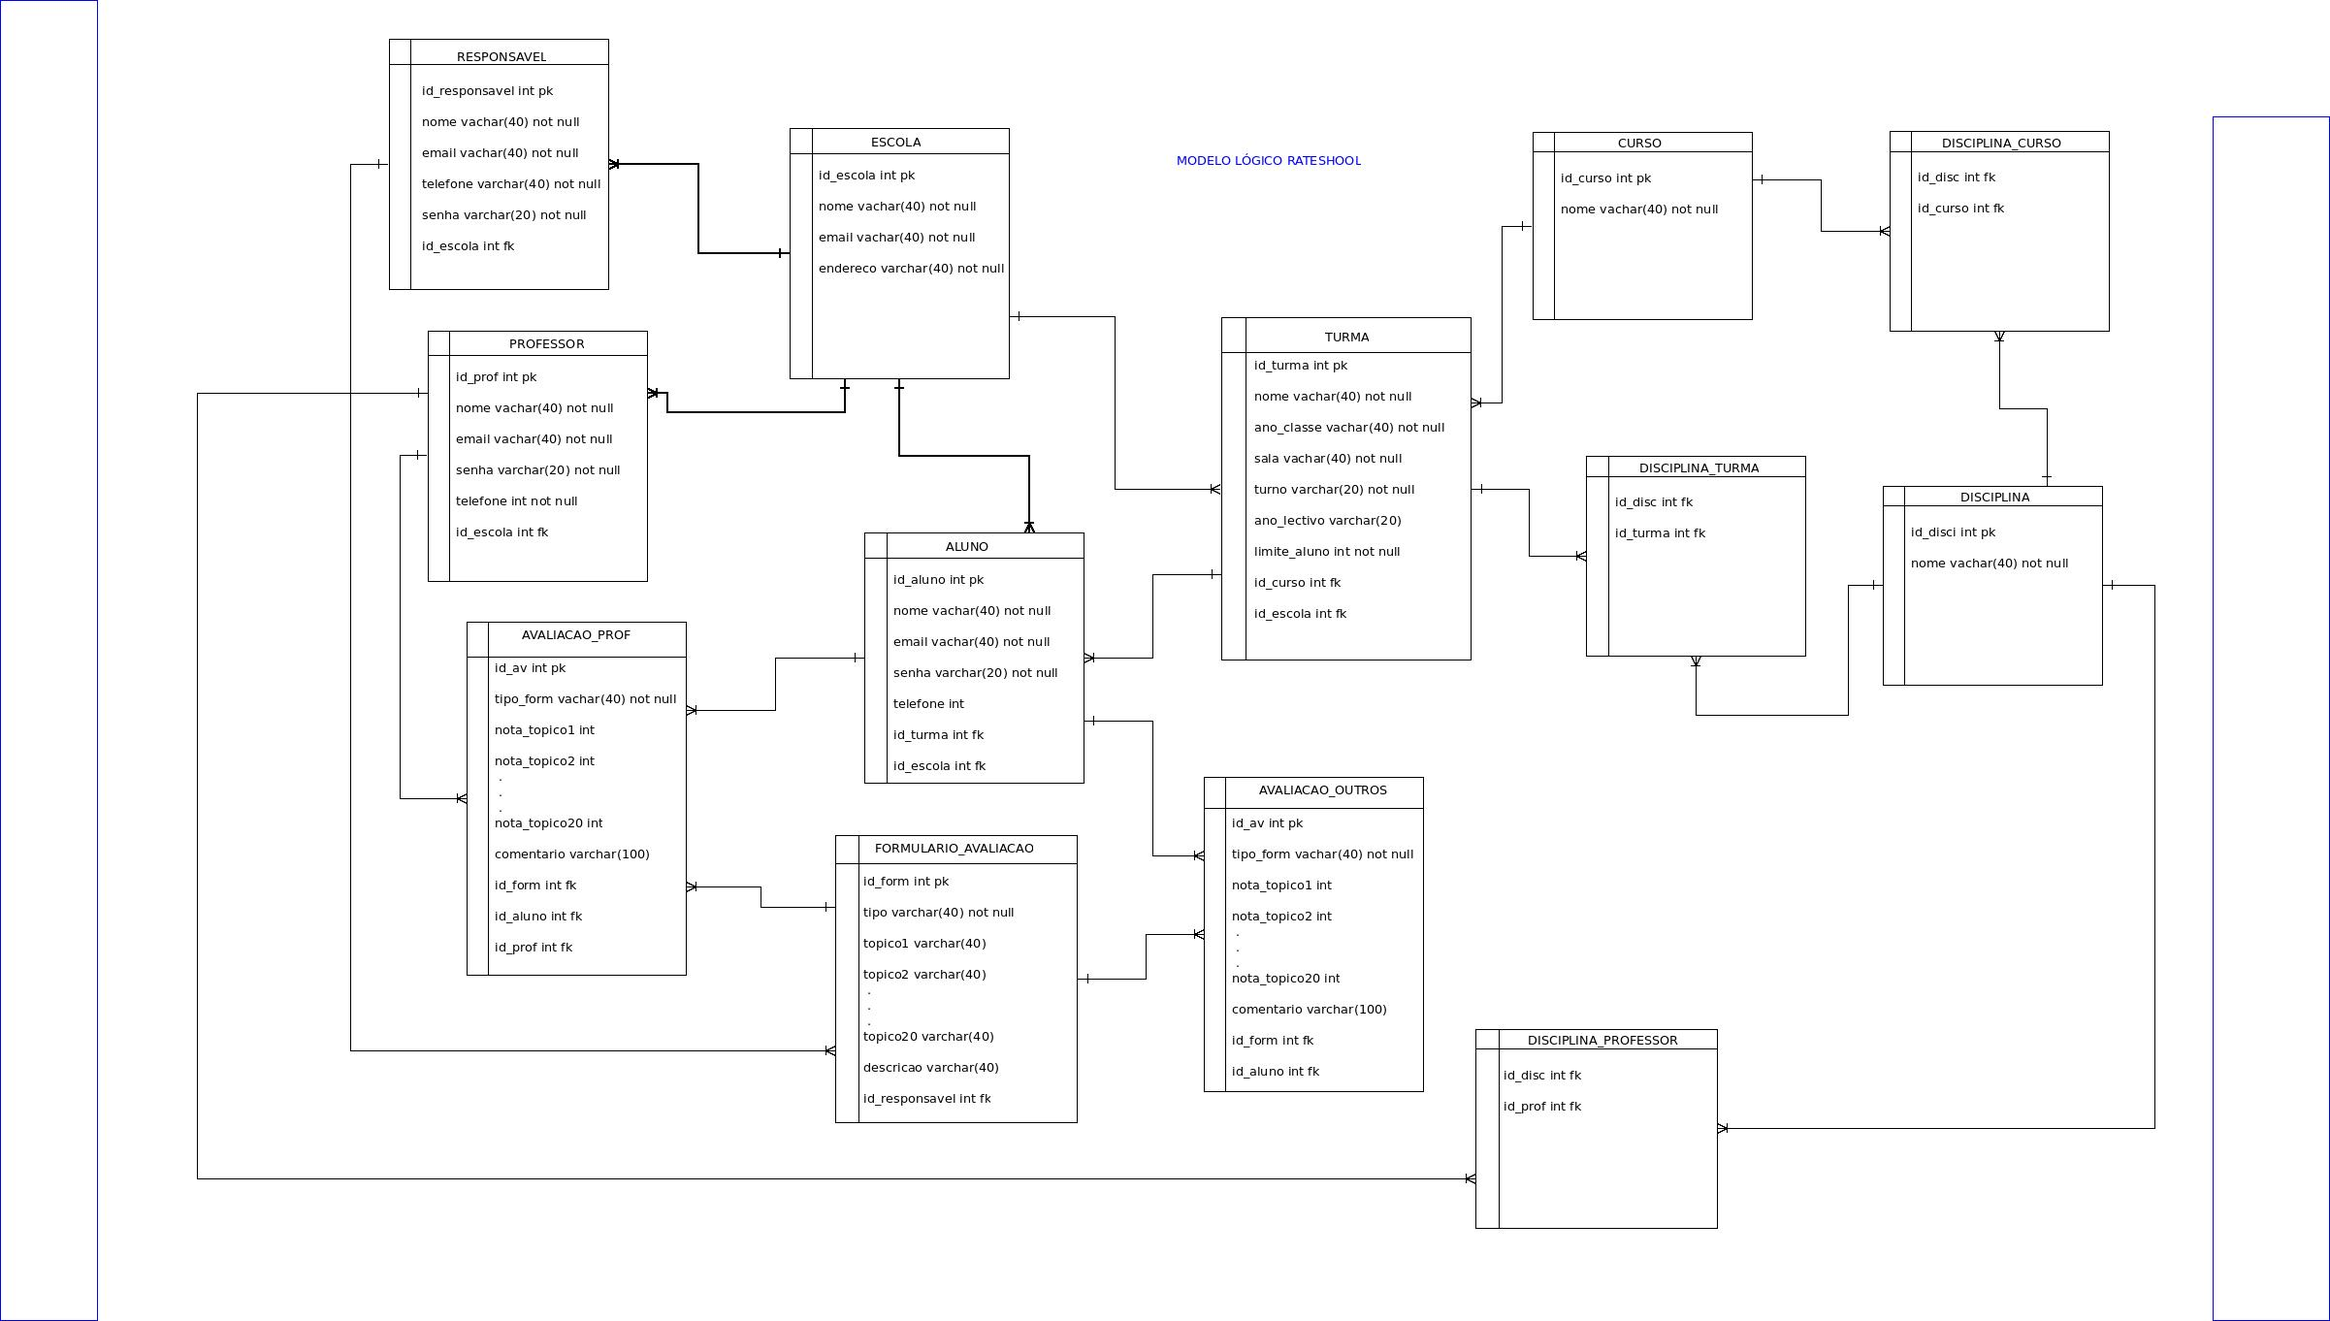
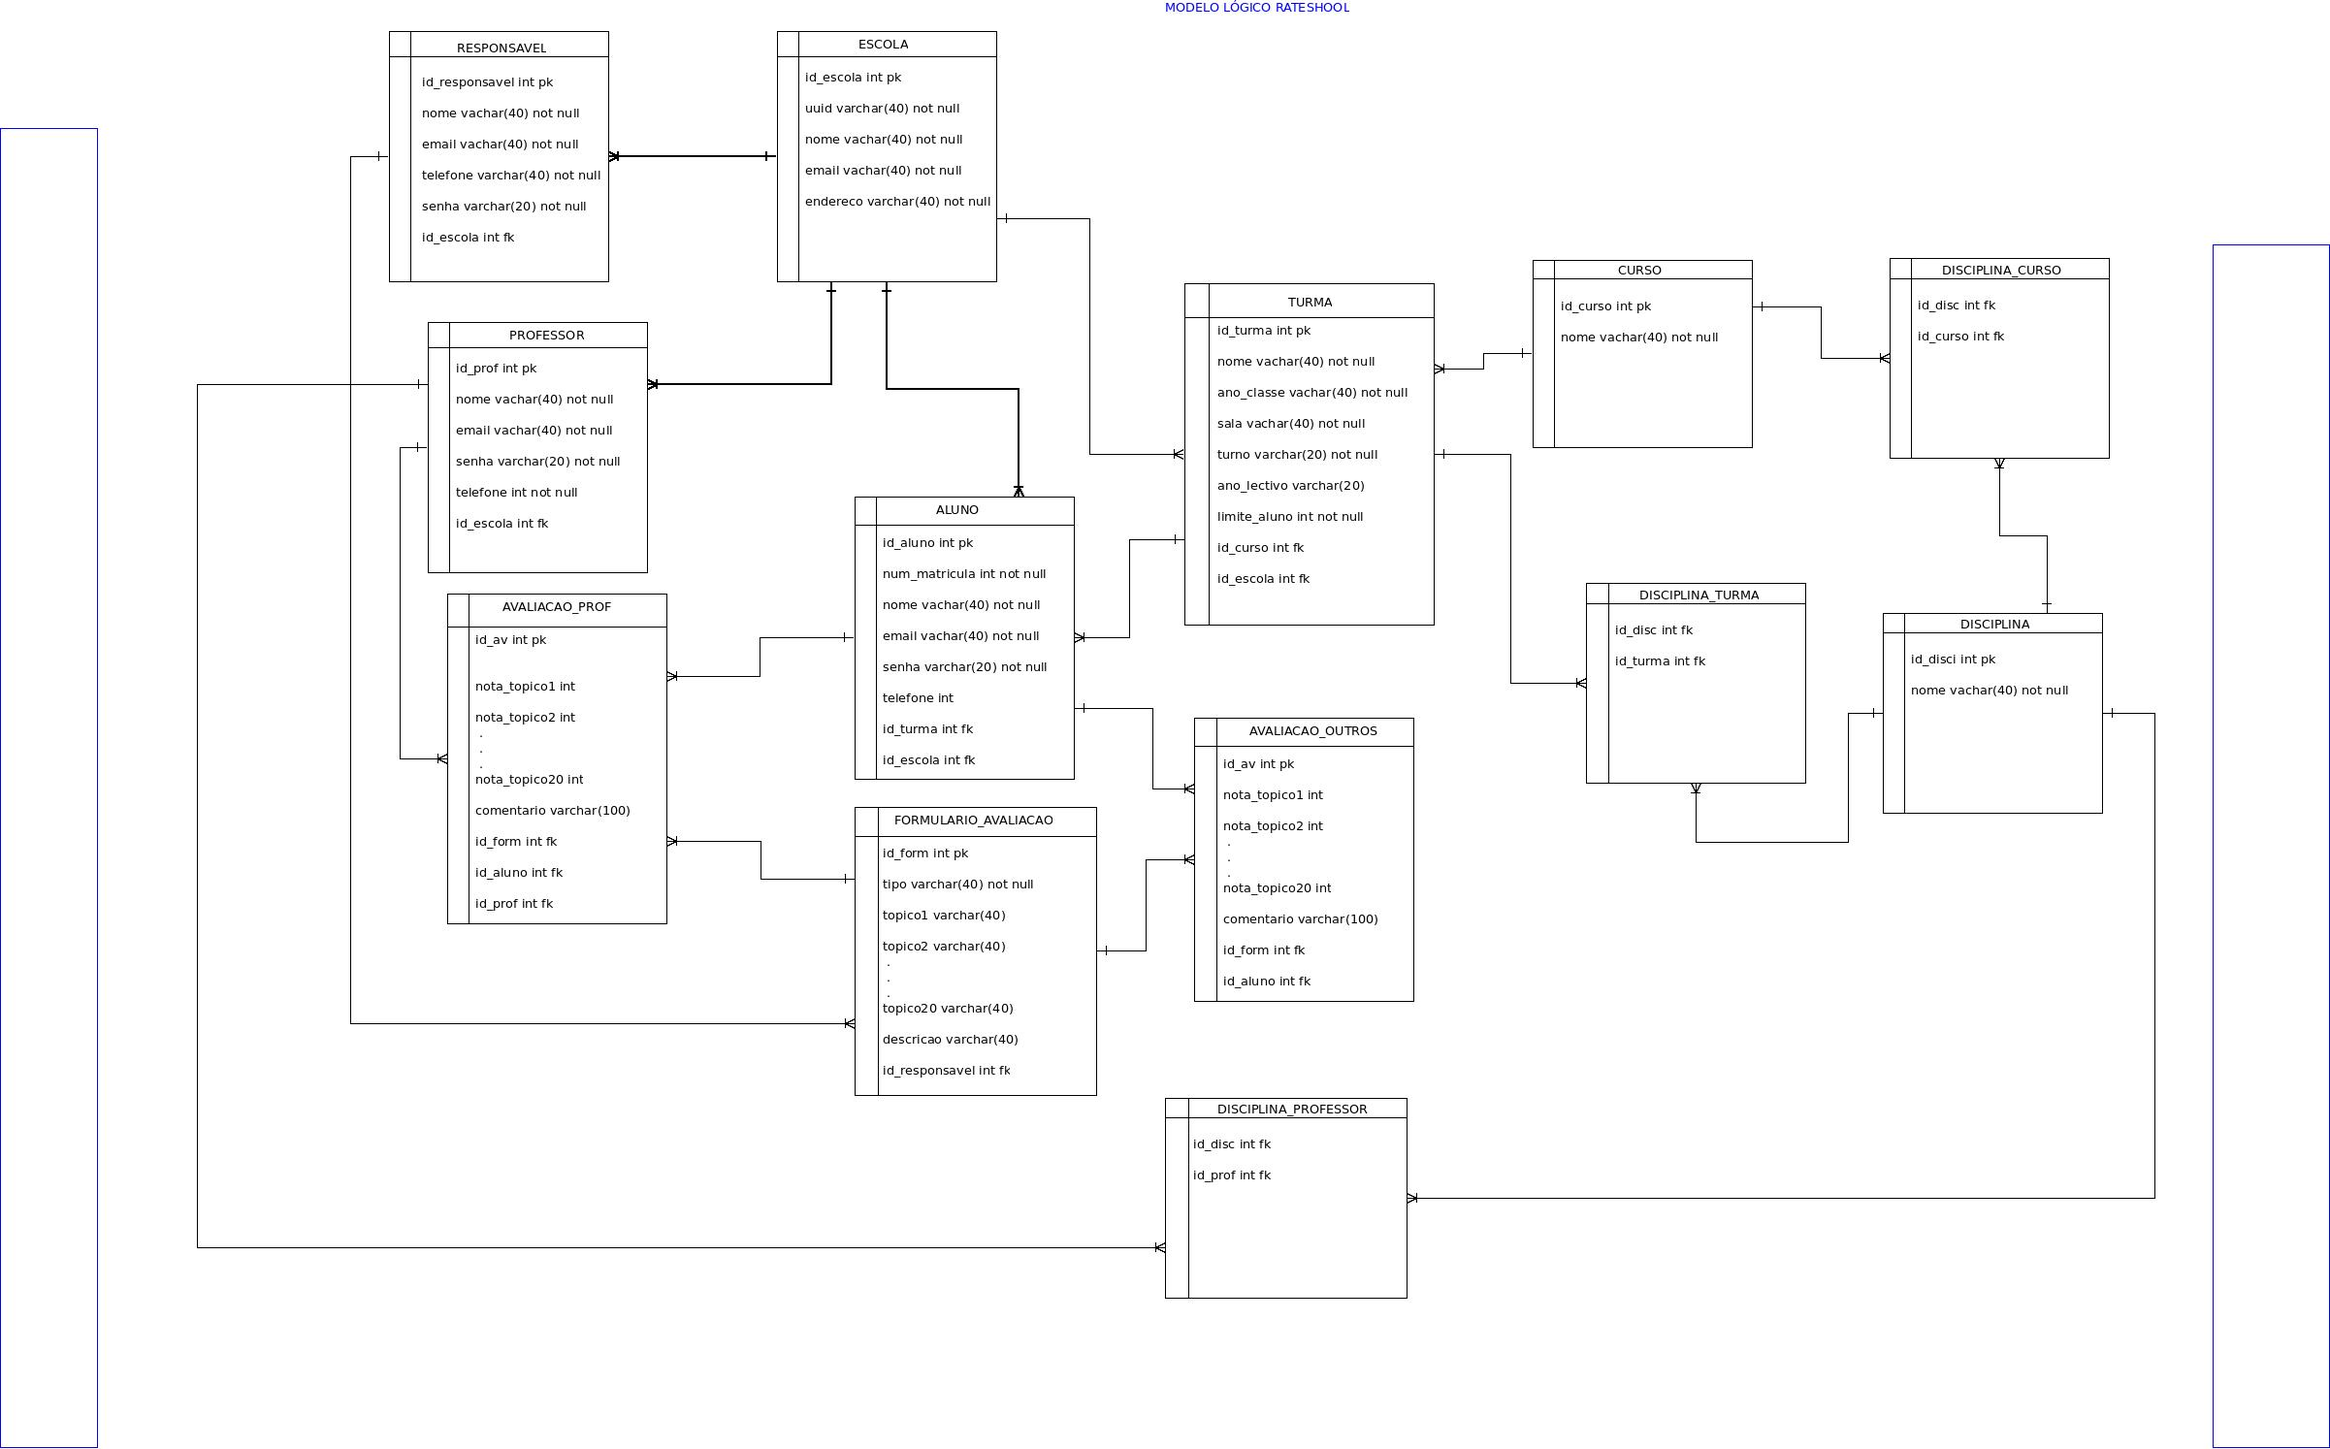
pagina criar conta e base

diff --git a/app/templates/criarConta.html b/app/templates/criarConta.html
@@ -1,0 +1,125 @@
+{% extends "base.html" %}
+
+{% block title %} Criar conta {% endblock %}
+
+{% block content %}
+<style>
+        /* Cores Customizadas (Reutilizando as cores do seu Navbar/Rodapé) */
+        .text-custom-blue {
+            color: #1a56db; 
+        }
+        .bg-custom-orange {
+            background-color: #f97316; 
+        }
+        .text-custom-orange {
+            color: #f97316; 
+        }
+    </style>
+
+<div class="md:p-8 flex flex-col md:flex-row">
+
+
+    <!-- Formulário de Criação de Conta -->
+        <div class="w-full md:w-1/2 lg:w-5/12 xl:w-4/12 bg-white p-8 sm:p-10 rounded-xl shadow-lg border border-gray-200">
+            
+            <h1 class="text-2xl font-bold text-gray-800 text-center mb-1">CRIAR CONTA</h1>
+            <p class="text-sm text-gray-600 text-center mb-8">
+                Preencha o formulário com os seus dados <br> para criar a sua conta.
+            </p>
+
+            <form action="#" method="POST" class="space-y-6">
+
+                <div class="space-y-4">
+                    <p class="text-sm font-semibold text-gray-700 border-b border-gray-300 pb-2">
+                        Informe os dados da Instituição
+                    </p>
+
+                    <div>
+                        <label for="nome_instituicao" class="flex items-center text-sm font-medium text-gray-700 mb-1">
+                            <svg class="w-5 h-5 mr-2 text-custom-orange" xmlns="http://www.w3.org/2000/svg" viewBox="0 0 24 24" fill="none" stroke="currentColor" stroke-width="2" stroke-linecap="round" stroke-linejoin="round"><path d="M12 2l10 5-10 5-10-5 10-5zm0 17v-10"/><path d="M4 12v6l8 4 8-4v-6"/></svg>
+                            Nome da Instituição
+                        </label>
+                        <input type="text" id="nome_instituicao" name="nome_instituicao" placeholder="Digite o Nome" required
+                               class="w-full p-2 border border-gray-300 rounded-lg focus:ring-custom-blue focus:border-custom-blue" />
+                    </div>
+
+                    <div>
+                        <label for="email_instituicao" class="flex items-center text-sm font-medium text-gray-700 mb-1">
+                            <svg class="w-5 h-5 mr-2 text-custom-orange" xmlns="http://www.w3.org/2000/svg" viewBox="0 0 24 24" fill="none" stroke="currentColor" stroke-width="2" stroke-linecap="round" stroke-linejoin="round"><path d="M4 4h16c1.1 0 2 .9 2 2v12c0 1.1-.9 2-2 2H4c-1.1 0-2-.9-2-2V6c0-1.1.9-2 2-2z"/><polyline points="22,6 12,13 2,6"/></svg>
+                            Email da Instituição
+                        </label>
+                        <input type="email" id="email_instituicao" name="email_instituicao" placeholder="Digite o Email" required
+                               class="w-full p-2 border border-gray-300 rounded-lg focus:ring-custom-blue focus:border-custom-blue" />
+                    </div>
+
+                    <div>
+                        <label for="endereco_instituicao" class="flex items-center text-sm font-medium text-gray-700 mb-1">
+                            <svg class="w-5 h-5 mr-2 text-custom-orange" xmlns="http://www.w3.org/2000/svg" viewBox="0 0 24 24" fill="none" stroke="currentColor" stroke-width="2" stroke-linecap="round" stroke-linejoin="round"><path d="M21 10c0 7-9 13-9 13s-9-6-9-13a9 9 0 0 1 18 0z"/><circle cx="12" cy="10" r="3"/></svg>
+                            Endereça da Instituição
+                        </label>
+                        <input type="text" id="endereco_instituicao" name="endereco_instituicao" placeholder="Digite o Endereço" required
+                               class="w-full p-2 border border-gray-300 rounded-lg focus:ring-custom-blue focus:border-custom-blue" />
+                    </div>
+                </div> <div class="pt-4 space-y-4">
+                    <p class="text-sm font-semibold text-gray-700 border-b border-gray-300 pb-2">
+                        Informe os dados do Responsável da conta
+                    </p>
+
+                    <div>
+                        <label for="nome_responsavel" class="flex items-center text-sm font-medium text-gray-700 mb-1">
+                            <svg class="w-5 h-5 mr-2 text-custom-orange" xmlns="http://www.w3.org/2000/svg" viewBox="0 0 24 24" fill="none" stroke="currentColor" stroke-width="2" stroke-linecap="round" stroke-linejoin="round"><path d="M20 21v-2a4 4 0 0 0-4-4H8a4 4 0 0 0-4 4v2"/><circle cx="12" cy="7" r="4"/></svg>
+                            Nome do Responsável
+                        </label>
+                        <input type="text" id="nome_responsavel" name="nome_responsavel" placeholder="Digite o nome completo" required
+                               class="w-full p-2 border border-gray-300 rounded-lg focus:ring-custom-blue focus:border-custom-blue" />
+                    </div>
+
+                    <div>
+                        <label for="telefone_responsavel" class="flex items-center text-sm font-medium text-gray-700 mb-1">
+                            <svg class="w-5 h-5 mr-2 text-custom-orange" xmlns="http://www.w3.org/2000/svg" viewBox="0 0 24 24" fill="none" stroke="currentColor" stroke-width="2" stroke-linecap="round" stroke-linejoin="round"><path d="M22 16.92v3a2 2 0 0 1-2.18 2 19.79 19.79 0 0 1-8.63-3.07 19.5 19.5 0 0 1-6-6A19.79 19.79 0 0 1 2 4.18V2.82A2 2 0 0 1 4.18 2 2.75 2.75 0 0 1 5 2.25c.16.08.32.17.47.27l1.88 1.1a1 1 0 0 1 .45 1.48L5.75 8.25a1 1 0 0 0 0 1.5l3 3a1 1 0 0 0 1.5 0l2.75-2.05a1 1 0 0 1 1.48.45l1.1 1.88c.1.15.19.31.27.47.07.16.04.34-.09.47l-1.5 1.5A2.75 2.75 0 0 0 22 16.92z"/></svg>
+                            Telefone do Responsável
+                        </label>
+                        <input type="tel" id="telefone_responsavel" name="telefone_responsavel" placeholder="Digite o nº de telefone" required
+                               class="w-full p-2 border border-gray-300 rounded-lg focus:ring-custom-blue focus:border-custom-blue" />
+                    </div>
+                </div>
+
+                <div>
+                    <label for="password" class="flex items-center text-sm font-medium text-gray-700 mb-1">
+                        <svg class="w-5 h-5 mr-2 text-custom-orange" xmlns="http://www.w3.org/2000/svg" viewBox="0 0 24 24" fill="none" stroke="currentColor" stroke-width="2" stroke-linecap="round" stroke-linejoin="round"><rect x="3" y="11" width="18" height="11" rx="2" ry="2"/><path d="M7 11V7a5 5 0 0 1 10 0v4"/></svg>
+                        Palavra Pass
+                    </label>
+                    <input type="password" id="password" name="password" placeholder="Digite a sua palavra pass" required
+                           class="w-full p-2 border border-gray-300 rounded-lg focus:ring-custom-blue focus:border-custom-blue" />
+                </div>
+
+                <div>
+                    <label for="confirm_password" class="flex items-center text-sm font-medium text-gray-700 mb-1">
+                        <svg class="w-5 h-5 mr-2 text-custom-orange" xmlns="http://www.w3.org/2000/svg" viewBox="0 0 24 24" fill="none" stroke="currentColor" stroke-width="2" stroke-linecap="round" stroke-linejoin="round"><rect x="3" y="11" width="18" height="11" rx="2" ry="2"/><path d="M7 11V7a5 5 0 0 1 10 0v4"/></svg>
+                        Confirme a Palavra Pass
+                    </label>
+                    <input type="password" id="confirm_password" name="confirm_password" placeholder="Digite a sua palavra pass" required
+                           class="w-full p-2 border border-gray-300 rounded-lg focus:ring-custom-blue focus:border-custom-blue" />
+                </div>
+
+                <button type="submit" 
+                        class="w-full py-2.5 mt-4 text-lg font-semibold text-white bg-custom-orange rounded-3xl shadow-md hover:bg-orange-600 transition duration-150">
+                    CRIAR
+                </button>
+            </form>
+            
+            <p class="text-sm text-center mt-4">
+                Já tem uma conta? 
+                <a href="#" class="text-custom-blue font-semibold hover:text-blue-700">Faça login.</a>
+            </p>
+
+        </div> 
+        
+        <!-- Ilustração ao lado do formulário em telas maiores -->
+        <div class="hidden md:flex md:w-1/2 lg:w-7/12 xl:w-8/12 p-8 justify-center items-center">
+            <img src="placeholder_illustration.svg" alt="Ilustração de criação de conta" class="w-full max-w-lg h-auto" />
+            
+        </div>
+</div>
+
+{% endblock %}

diff --git a/app/templates/base.html b/app/templates/base.html
@@ -1,20 +1,121 @@
 <!DOCTYPE html>
-<html lang="pt-br">
+<html lang="pt">
 <head>
-    <meta charset="UTF-8">
-    <meta name="viewport" content="width=device-width, initial-scale=1.0">
-    <title>{% block title %} base {% endblock %}</title>
-    <link rel="stylesheet" href="{{ url_for('static', filename='css/style.css') }}">
+  <meta charset="UTF-8" />
+  <meta name="viewport" content="width=device-width, initial-scale=1.0" />
+  <title>RateSchool</title>
+  <link href="https://cdn.jsdelivr.net/npm/tailwindcss@2.2.19/dist/tailwind.min.css" rel="stylesheet">
+  <script src="https://kit.fontawesome.com/a076d05399.js" crossorigin="anonymous"></script>
 
+  <style>
+    /* Animação suave do menu mobile lateral */
+    #mobile-menu {
+      transition: transform 0.3s ease-in-out;
+    }
+  </style>
 </head>
-<body>
 
+<body class="flex flex-col min-h-screen bg-white">
 
-    <div>
-        {% block content %}
-        
-        {% endblock %}
+  <!-- Navbar -->
+  <header class="bg-white shadow-md fixed w-full top-0 left-0 z-50">
+    <nav class="container mx-auto flex justify-between items-center py-3 px-4 md:px-10">
+      
+      <!-- Lado Esquerdo (Logo + Home) -->
+      <div class="flex items-center space-x-4">
+        <img src="rateShoollogo.svg" alt="RateSchool Logo" class="w-10 h-10">
+        <a href="#" class="border border-blue-500 text-blue-700 py-1.5 px-5 rounded-full text-sm font-semibold hover:bg-blue-600 hover:text-white transition duration-300">
+          HOME
+        </a>
+      </div>
+
+      <!-- Menu Desktop -->
+      <ul class="hidden md:flex items-center space-x-6 text-sm font-semibold text-blue-700">
+        <li><a href="#" class="hover:underline">SOBRE NÓS</a></li>
+        <li>
+          <a href="#" class="border border-blue-500 text-blue-700 bg-white py-1.5 px-5 rounded-full hover:bg-blue-600 hover:text-white transition duration-300">
+            LOGIN
+          </a>
+        </li>
+        <li>
+          <a href="#" class="border border-yellow-500 bg-yellow-500 text-white py-1.5 px-5 rounded-full hover:bg-yellow-600 transition duration-300">
+            CRIAR CONTA
+          </a>
+        </li>
+      </ul>
+
+      <!-- Botão Hamburger -->
+      <div class="md:hidden flex items-center">
+        <button id="menu-btn" class="focus:outline-none">
+          <svg xmlns="http://www.w3.org/2000/svg" class="h-7 w-7 text-blue-700" fill="none" viewBox="0 0 24 24" stroke="currentColor">
+            <path stroke-linecap="round" stroke-linejoin="round" stroke-width="2"
+              d="M4 6h16M4 12h16M4 18h16" />
+          </svg>
+        </button>
+      </div>
+    </nav>
+
+    <!-- Menu Mobile lateral direita -->
+    <div id="mobile-menu" class="fixed top-0 right-0 h-full w-64 bg-white shadow-lg transform translate-x-full z-40">
+      <div class="flex justify-end p-4">
+        <button id="close-menu" class="text-blue-700 text-2xl font-bold focus:outline-none">&times;</button>
+      </div>
+      <div class="flex flex-col items-center py-4 text-blue-700 font-semibold space-y-4">
+        <a href="#" class="hover:text-blue-500 transition duration-200">SOBRE NÓS</a>
+        <hr class="w-10/12 border-gray-300">
+        <a href="#" class="hover:text-blue-500 transition duration-200">LOGIN</a>
+        <hr class="w-10/12 border-gray-300">
+        <a href="#" class="hover:text-blue-500 transition duration-200">CRIAR CONTA</a>
+      </div>
     </div>
+
+  </header>
+
+  <!-- Espaço para o conteúdo -->
+  <main class="flex-grow pt-24 bg-white">
     
+    <div class="container mx-auto px-10">
+
+      <!-- Conteúdo específico da página será inserido aqui -->
+       {% block content %}
+       {% endblock %}
+    </div>
+   
+  </main>
+
+  <!-- Rodapé -->
+  <footer class="bg-yellow-300 py-8 mt-10">
+    <div class="container mx-auto text-center text-gray-800">
+      <h2 class="text-blue-700 text-2xl italic font-semibold">RateSchool</h2>
+
+      <div class="flex justify-center space-x-5 mt-3 text-gray-800 text-xl">
+        <a href="#"><i class="fab fa-facebook"></i></a>
+        <a href="#"><i class="fab fa-instagram"></i></a>
+        <a href="#"><i class="fab fa-linkedin"></i></a>
+        <a href="#"><i class="fab fa-youtube"></i></a>
+      </div>
+
+      <div class="border-t border-gray-400 mt-5 w-10/12 md:w-1/2 mx-auto"></div>
+      <p class="mt-3 italic">@ 2025 / RateSchool</p>
+    </div>
+  </footer>
+
+  <!-- Script do Menu -->
+  <script>
+    const btn = document.getElementById('menu-btn');
+    const closeBtn = document.getElementById('close-menu');
+    const menu = document.getElementById('mobile-menu');
+
+    btn.addEventListener('click', () => {
+      menu.classList.remove('translate-x-full');
+      menu.classList.add('translate-x-0');
+    });
+
+    closeBtn.addEventListener('click', () => {
+      menu.classList.add('translate-x-full');
+      menu.classList.remove('translate-x-0');
+    });
+  </script>
+
 </body>
 </html>

diff --git a/app/templates/base copy.html b/app/templates/base copy.html
@@ -1,0 +1,20 @@
+<!DOCTYPE html>
+<html lang="pt-br">
+<head>
+    <meta charset="UTF-8">
+    <meta name="viewport" content="width=device-width, initial-scale=1.0">
+    <title>{% block title %} base {% endblock %}</title>
+    <link rel="stylesheet" href="{{ url_for('static', filename='css/style.css') }}">
+
+</head>
+<body>
+
+
+    <div>
+        {% block content %}
+        
+        {% endblock %}
+    </div>
+    
+</body>
+</html>

diff --git a/app/routes/routes.py b/app/routes/routes.py
@@ -5,9 +5,9 @@ ola_bp = Blueprint('ola', __name__)
 
 @ola_bp.route('/')
 def index():
-    return render_template('index.html', title='Página Inicial')
+    return render_template('index.html', title='Home')
 
-@ola_bp.route('/ola')
+@ola_bp.route('/CriarConta')
 def ola_mundo():
     
-    return "Olá, Mundo!"
+    return render_template('criarConta.html', title='Criar Conta')

diff --git a/app/routes/__init__.py b/app/routes/__init__.py
@@ -1,3 +1,3 @@
-from .ola_mundo import ola_bp
+from .routes import ola_bp
 
 bp = [ola_bp]
